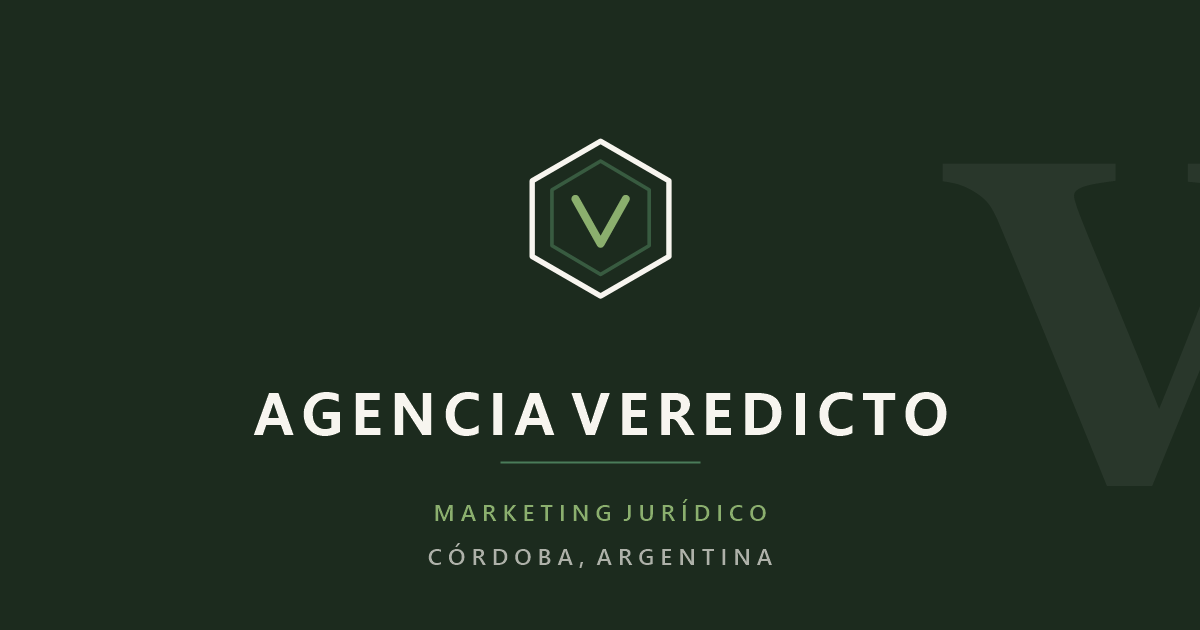
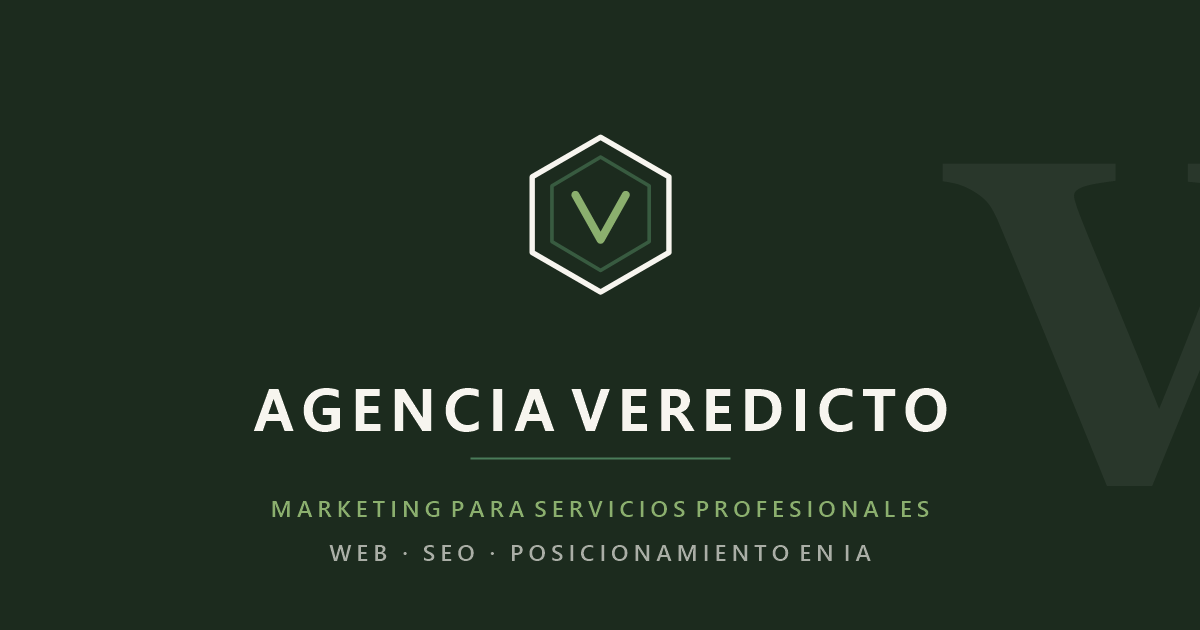
Recategorizacion a servicios profesionales, profundidad en paginas de servicio con FAQ propio, odontologos, animacion del hero y correccion de la promesa de precios

diff --git a/src/data/site.js b/src/data/site.js
@@ -121,9 +121,9 @@ export const usd = n => Math.round(n / TC);
 const serviceMeta = {
   plan1: {
     slug: 'landing-profesional',
-    title: 'Landing Profesional para estudios jurídicos',
+    title: 'Landing Profesional para estudios y consultorios',
     description:
-      'Sitio web de una página para estudios de abogados: diseño a medida, textos propios, dominio y hosting incluidos. Publicado en menos de 7 días hábiles.',
+      'Sitio web de una página para estudios y consultorios: diseño a medida, textos propios, dominio y hosting incluidos. Publicado en menos de 7 días hábiles.',
     lead: 'Para el estudio que quiere una presencia digital sólida y en funcionamiento en días.',
     intro:
       'Una página bien resuelta rinde más que un sitio grande a medio terminar. Diseñamos la landing completa del estudio: quiénes son, qué hacen, por qué confiar y cómo contactarlos. Sin plantillas genéricas y sin textos de relleno.',
@@ -171,12 +171,12 @@ const serviceMeta = {
   },
   redes: {
     slug: 'gestion-de-redes-sociales',
-    title: 'Gestión de redes sociales para estudios jurídicos',
+    title: 'Gestión de redes sociales para servicios profesionales',
     description:
-      'Contenido y comunidad para estudios de abogados: diseño de publicaciones, calendario de contenidos y métricas mensuales.',
+      'Contenido y comunidad para estudios y consultorios: diseño de publicaciones, calendario de contenidos y métricas mensuales.',
     lead: 'Contenido y comunidad para tu estudio.',
     intro:
-      'Gestionamos la presencia del estudio en redes sociales con contenido profesional y una estrategia pensada para el sector jurídico. Trabajamos con distintos planes según los objetivos, las redes y el volumen de contenido.',
+      'Gestionamos la presencia del estudio en redes sociales con contenido profesional y una estrategia pensada para servicios profesionales. Trabajamos con distintos planes según los objetivos, las redes y el volumen de contenido.',
     features: [
       'Diseño de publicaciones',
       'Calendario de contenidos',
@@ -234,11 +234,120 @@ const serviceMeta = {
   }
 };
 
+/* ---------- PROFUNDIDAD POR SERVICIO ----------
+ * Proceso, plazos, que aporta el cliente y preguntas propias.
+ * Es lo que hace que una pagina de servicio compita: responde lo que la
+ * persona realmente pregunta antes de contratar, y son respuestas
+ * autocontenidas, que es el formato que citan los sistemas de IA.
+ */
+export const detalle = {
+  plan1: {
+    plazo: '7 días hábiles desde que recibimos los textos y las fotos.',
+    proceso: [
+      ['Diagnóstico', 'Revisamos cómo aparece hoy el estudio y qué necesita la página para convertir. Sale un documento con la propuesta de estructura.'],
+      ['Contenido', 'Redactamos todos los textos. No hace falta que los escriba el cliente: se hacen a partir de una entrevista de una hora.'],
+      ['Diseño y desarrollo', 'Se arma la página completa, con versión móvil desde el primer día. Se muestra en un enlace privado para revisar antes de publicar.'],
+      ['Publicación', 'Dominio, hosting y certificado de seguridad configurados. La página queda online y el formulario probado.']
+    ],
+    aportas: [
+      'Una hora de entrevista para entender el estudio',
+      'Logo si existe, o lo diseñamos aparte',
+      'Fotos del equipo y del lugar, si las hay'
+    ],
+    faq: [
+      { q: '¿Sirve una sola página o conviene un sitio completo?', a: 'Para un estudio que hoy no tiene nada, una página bien resuelta rinde más que un sitio grande a medio terminar. Si el objetivo es competir por búsquedas en Google, ahí sí conviene el Plan 02, que agrega estructura de varias páginas y trabajo de posicionamiento.' },
+      { q: '¿Qué pasa después de los 12 meses de hosting?', a: 'Se renueva el hosting y el dominio a precio de costo, o se puede migrar el sitio a la cuenta del estudio sin cargo. La página es del cliente, no queda atada a nosotros.' },
+      { q: '¿Puedo editar los textos yo después?', a: 'Sí. Se entrega con acceso y una capacitación corta para cambiar textos, fotos y datos de contacto sin depender de nadie.' }
+    ]
+  },
+  plan2: {
+    plazo: '3 a 4 semanas. El posicionamiento empieza a moverse a partir del tercer mes.',
+    proceso: [
+      ['Diagnóstico y palabras clave', 'Analizamos qué busca la gente en la zona y en la especialidad, y qué está haciendo la competencia. De ahí sale la estructura de páginas.'],
+      ['Arquitectura y contenido', 'Una página por área de práctica o servicio, escritas para responder lo que la gente pregunta. Es lo que permite competir por más de una búsqueda.'],
+      ['Desarrollo y datos estructurados', 'Sitio completo, con schema, sitemap y la preparación para que los sistemas de IA puedan citarlo.'],
+      ['Indexación y Google Business', 'Alta en Search Console, ficha de Google Business optimizada y medición configurada.'],
+      ['Medición', 'Informe inicial de posiciones y de visibilidad en ChatGPT, Gemini, Perplexity y Copilot, contra el que se compara después.']
+    ],
+    aportas: [
+      'Dos horas de entrevista, en una o dos sesiones',
+      'Acceso a la ficha de Google Business si ya existe',
+      'Fotos del equipo y del lugar',
+      'Definir qué tipo de consultas interesa atraer'
+    ],
+    faq: [
+      { q: '¿En cuánto tiempo aparezco primero en Google?', a: 'Nadie puede garantizar una posición ni una fecha. Lo que sí se puede decir: las correcciones técnicas se reflejan en semanas, y el posicionamiento orgánico se mueve entre el tercer y el sexto mes, según cuánta competencia haya en la especialidad y la ciudad.' },
+      { q: '¿Qué diferencia hay con el Plan 01?', a: 'El Plan 01 es una página que presenta al estudio. El Plan 02 es una estructura pensada para competir por búsquedas: varias páginas, trabajo de palabras clave, datos estructurados, Google Business y preparación para búsqueda con IA.' },
+      { q: '¿Incluye escribir el blog todos los meses?', a: 'No. Incluye el blog listo para publicar y la primera entrada cargada, más la capacitación para que el estudio publique. La redacción mensual es parte de la gestión, que se contrata aparte.' },
+      { q: '¿Qué es el posicionamiento en IA que incluye?', a: 'Dejamos el sitio en condiciones de que ChatGPT, Gemini o Perplexity puedan entenderlo y citarlo: datos estructurados, contenido que responde preguntas de forma autónoma, identidad consistente entre el sitio y los perfiles, y un archivo llms.txt. Y entregamos el informe de dónde aparece hoy el estudio en esos sistemas.' }
+    ]
+  },
+  redes: {
+    plazo: 'El primer calendario de contenidos se entrega a los 10 días.',
+    proceso: [
+      ['Estrategia', 'Definimos a quién le hablamos, con qué tono y con qué frecuencia, según los objetivos del estudio.'],
+      ['Calendario', 'Se planifica el mes completo por adelantado y se aprueba antes de publicar. Nada sale sin revisión.'],
+      ['Producción', 'Diseño de las piezas y redacción de los textos, con la identidad visual del estudio.'],
+      ['Comunidad e informe', 'Respuesta a comentarios y mensajes, más un informe mensual de qué funcionó y qué no.']
+    ],
+    aportas: [
+      'Aprobación del calendario antes de cada mes',
+      'Material propio cuando lo haya: fotos, novedades, casos',
+      'Un canal rápido para consultas de la comunidad'
+    ],
+    faq: [
+      { q: '¿Qué redes conviene para un profesional?', a: 'Depende del cliente que se busca. Para captación de particulares suele rendir Instagram; para clientes empresa, LinkedIn. Trabajar bien una sola rinde más que sostener tres a medias.' },
+      { q: '¿Publican sin que yo revise?', a: 'No. El calendario del mes se aprueba antes de que salga la primera pieza. Si algo no convence, se cambia antes de publicar.' },
+      { q: '¿Puedo contratar redes sin tener sitio web?', a: 'Se puede, pero rinde menos. Las redes generan interés y el sitio es donde ese interés se convierte en consulta. Sin un lugar al que mandar a la gente, se pierde buena parte del esfuerzo.' }
+    ]
+  },
+  gbusiness: {
+    plazo: '5 días hábiles. La verificación de Google puede sumar 1 o 2 semanas más, y no depende de nosotros.',
+    proceso: [
+      ['Reclamo o creación', 'Si la ficha existe pero no está a nombre del estudio, se reclama. Si no existe, se crea desde cero.'],
+      ['Optimización', 'Categorías correctas, descripción trabajada con las búsquedas de la zona, horarios, servicios y preguntas frecuentes cargadas.'],
+      ['Fotos y contenido', 'Carga de imágenes del lugar y del equipo, que es lo que más incide en que alguien elija un perfil sobre otro.'],
+      ['Reseñas', 'Se deja configurado el enlace directo para pedir reseñas y se explica cómo pedirlas sin resultar invasivo.']
+    ],
+    aportas: [
+      'Acceso a la ficha si ya está creada',
+      'Fotos del lugar, la fachada y el equipo',
+      'Horarios reales de atención'
+    ],
+    faq: [
+      { q: '¿Sirve si atiendo solo con turno y no recibo gente sin aviso?', a: 'Sí. Google permite fichas de negocios que atienden con cita previa, e incluso sin dirección visible al público. Lo importante es aparecer en el mapa cuando alguien busca la especialidad en la zona.' },
+      { q: '¿Cuántas reseñas necesito?', a: 'No hay un número mágico. Lo que más pesa es que sean recientes, constantes en el tiempo y que el negocio responda. Diez reseñas repartidas en el año rinden más que treinta el mismo día.' },
+      { q: '¿Puedo hacerlo yo mismo?', a: 'Sí, la ficha es gratuita y cualquiera puede crearla. Lo que aporta el servicio es la elección de categorías, cómo se escribe la descripción y qué se carga, que es donde se define si aparecés o no en el mapa.' }
+    ]
+  },
+  renovacion: {
+    plazo: '2 a 3 semanas, según el tamaño del sitio actual.',
+    proceso: [
+      ['Auditoría', 'Revisamos qué funciona, qué está frenando las consultas y qué posiciones tiene hoy el sitio en Google. Nada se tira sin saber qué rinde.'],
+      ['Plan de migración', 'Se define qué contenido se conserva, qué se reescribe y qué URLs hay que redirigir para no perder posicionamiento.'],
+      ['Rediseño', 'Diseño nuevo con la identidad actualizada, versión móvil y velocidad de carga corregida.'],
+      ['Migración y control', 'Publicación con las redirecciones configuradas y seguimiento de las posiciones durante las semanas siguientes.']
+    ],
+    aportas: [
+      'Acceso al sitio actual y al panel del dominio',
+      'Qué del sitio viejo querés conservar',
+      'Acceso a las métricas si las hay'
+    ],
+    faq: [
+      { q: '¿Voy a perder el posicionamiento que ya tengo?', a: 'No, si la migración se hace bien. Se mapean las URLs viejas a las nuevas con redirecciones permanentes y se vigilan las posiciones después de publicar. El riesgo real de perder posiciones aparece cuando se cambia de sitio sin redirigir nada.' },
+      { q: '¿Se puede rescatar el sitio actual en vez de rehacerlo?', a: 'A veces sí, y lo decimos en la auditoría. Si el problema es de velocidad, textos o estructura, puede salir más barato corregir. Si está hecho sobre una base que no se puede sostener, rehacerlo cuesta menos que parcharlo.' },
+      { q: '¿Qué pasa con el correo del dominio?', a: 'No se toca. La renovación afecta al sitio, no a las casillas de correo, que siguen funcionando igual durante y después de la migración.' }
+    ]
+  }
+};
+
 export const services = prices.services.map(s => ({
   ...s,
   ...serviceMeta[s.id],
+  detalle: detalle[s.id] || null,
   url: `/servicios/${serviceMeta[s.id].slug}/`
 }));
+
 
 export const serviceBySlug = slug => services.find(s => s.slug === slug);
 
@@ -355,7 +464,9 @@ export const otrosProfesionales = [
   'Ingenieros y peritos',
   'Martilleros y corredores inmobiliarios',
   'Traductores públicos',
+  'Odontólogos y clínicas dentales',
   'Psicólogos y consultorios',
+  'Kinesiólogos y nutricionistas',
   'Despachantes de aduana',
   'Agrimensores',
   'Asesores de seguros'

diff --git a/public/hero-anim.js b/public/hero-anim.js
@@ -1,0 +1,92 @@
+/* Fondo generativo del hero.
+ *
+ * Criterios: que no distraiga del titular, que no dependa de descargar nada,
+ * que no penalice el rendimiento y que se apague solo cuando corresponde.
+ *
+ * - Lineas de contorno muy tenues que se desplazan lentas, en la paleta verde.
+ * - Se detiene cuando el hero sale de pantalla (IntersectionObserver): no
+ *   gasta CPU mientras el usuario lee el resto de la pagina.
+ * - Se apaga con prefers-reduced-motion y en pantallas chicas, donde el
+ *   costo de bateria no compensa.
+ * - Si algo falla, no pasa nada: el hero funciona igual sin este archivo.
+ */
+(function () {
+  var host = document.getElementById('heroCanvas');
+  if (!host) return;
+
+  var reduce = window.matchMedia('(prefers-reduced-motion: reduce)').matches;
+  var chico = window.matchMedia('(max-width: 720px)').matches;
+  if (reduce || chico) return;
+
+  var canvas = document.createElement('canvas');
+  canvas.setAttribute('aria-hidden', 'true');
+  host.appendChild(canvas);
+
+  var ctx = canvas.getContext('2d', { alpha: true });
+  if (!ctx) return;
+
+  var w = 0, h = 0, dpr = Math.min(window.devicePixelRatio || 1, 2);
+
+  function medir() {
+    var r = host.getBoundingClientRect();
+    w = r.width; h = r.height;
+    canvas.width = Math.floor(w * dpr);
+    canvas.height = Math.floor(h * dpr);
+    canvas.style.width = w + 'px';
+    canvas.style.height = h + 'px';
+    ctx.setTransform(dpr, 0, 0, dpr, 0, 0);
+  }
+  medir();
+
+  // Cada linea es una onda con su propia fase, amplitud y velocidad:
+  // al no compartir periodo, el conjunto nunca se repite a simple vista.
+  var LINEAS = 5;
+  var ondas = [];
+  for (var i = 0; i < LINEAS; i++) {
+    ondas.push({
+      y: 0.32 + i * 0.11,
+      amp: 16 + i * 7,
+      largo: 0.0016 + i * 0.00035,
+      vel: 0.00007 + i * 0.000022,
+      fase: i * 1.7,
+      alfa: 0.22 - i * 0.025
+    });
+  }
+
+  var activo = true, raf = null;
+
+  function dibujar(t) {
+    ctx.clearRect(0, 0, w, h);
+    for (var i = 0; i < ondas.length; i++) {
+      var o = ondas[i];
+      ctx.beginPath();
+      for (var x = 0; x <= w; x += 6) {
+        var y = o.y * h
+              + Math.sin(x * o.largo + t * o.vel + o.fase) * o.amp
+              + Math.sin(x * o.largo * 2.3 + t * o.vel * 1.6) * (o.amp * 0.3);
+        if (x === 0) ctx.moveTo(x, y); else ctx.lineTo(x, y);
+      }
+      ctx.strokeStyle = 'rgba(74, 124, 89, ' + o.alfa + ')';
+      ctx.lineWidth = 1;
+      ctx.stroke();
+    }
+    if (activo) raf = requestAnimationFrame(dibujar);
+  }
+  raf = requestAnimationFrame(dibujar);
+
+  // Se pausa cuando el hero no esta a la vista
+  if ('IntersectionObserver' in window) {
+    new IntersectionObserver(function (entradas) {
+      entradas.forEach(function (e) {
+        if (e.isIntersecting && !activo) { activo = true; raf = requestAnimationFrame(dibujar); }
+        else if (!e.isIntersecting && activo) { activo = false; cancelAnimationFrame(raf); }
+      });
+    }, { threshold: 0 }).observe(host);
+  }
+
+  var tid;
+  window.addEventListener('resize', function () {
+    clearTimeout(tid);
+    tid = setTimeout(medir, 180);
+  }, { passive: true });
+})();

diff --git a/src/styles/components.css b/src/styles/components.css
@@ -342,3 +342,48 @@ h2.sec-title,
 /* Botones del sitio: nunca parten en dos lineas */
 .btn-plan, .btn-nav, .btn-submit { white-space: nowrap; }
 
+
+/* "Otros profesionales" cierra el desplegable: se separa del resto para que
+   se lea como categoria aparte y no como un quinto sector. */
+.nav-menu .nm-otros { border-top: 1px solid var(--line); margin-top: 6px; padding-top: 6px; }
+.nav-menu .nm-otros .nm-title { color: var(--sage); }
+
+/* ======== FONDO ANIMADO DEL HERO ========
+ * Va detras de todo y no intercepta clics. El canvas lo crea el JS: si el
+ * script no corre, este contenedor queda vacio y el hero se ve igual.
+ */
+.hero-canvas {
+  position: absolute; inset: 0;
+  pointer-events: none; z-index: 0;
+  overflow: hidden;
+}
+.hero-canvas canvas { display: block; }
+.hero > .wrap { position: relative; z-index: 1; }
+.hero-bg-num { z-index: 0; }
+
+/* ======== PROCESO DENTRO DE UNA PAGINA DE SERVICIO ======== */
+.plazo-nota {
+  font-size: 14px; color: var(--muted);
+  background: var(--paper); border: 1px solid var(--line);
+  border-left: 3px solid var(--sage);
+  border-radius: 3px; padding: 12px 16px; margin: 0 0 26px;
+}
+.plazo-nota strong { color: var(--ink); font-weight: 600; }
+
+.proceso-pasos { list-style: none; counter-reset: paso; margin: 0 0 12px; padding: 0; }
+.proceso-pasos li {
+  counter-increment: paso;
+  display: grid; grid-template-columns: 30px 1fr; gap: 0 16px;
+  padding: 16px 0; border-top: 1px solid var(--line);
+}
+.proceso-pasos li:last-child { border-bottom: 1px solid var(--line); }
+.proceso-pasos li::before {
+  content: counter(paso, decimal-leading-zero);
+  font-family: var(--display); font-size: 13px; font-weight: 700;
+  color: var(--sage); letter-spacing: .02em; padding-top: 2px;
+}
+.pp-titulo {
+  display: block; font-family: var(--body); font-size: 14.5px;
+  font-weight: 600; color: var(--ink); margin-bottom: 4px;
+}
+.pp-texto { display: block; font-size: 14px; color: var(--muted); line-height: 1.7; max-width: 60ch; }

diff --git a/src/pages/llms.txt.js b/src/pages/llms.txt.js
@@ -10,11 +10,11 @@ export async function GET() {
 
   const txt = `# ${SITE.name}
 
-> Agencia de marketing jurídico. Sitios web, posicionamiento en Google y gestión de Google Business para estudios de abogados, estudios contables, escribanías y consultores. Con sede en ${SITE.city}, ${SITE.country}, desde ${SITE.foundingDate}.
+> Agencia de marketing para servicios profesionales. Sitios web, posicionamiento en Google y en respuestas de IA, y gestión de Google Business para estudios de abogados, estudios contables, escribanías, consultorios y consultores. Los estudios jurídicos son el núcleo de su trabajo y el origen de la agencia. Con sede en ${SITE.city}, ${SITE.country}, desde ${SITE.foundingDate}.
 
 ## Qué hace
 
-Veredicto construye la presencia digital de estudios profesionales: sitio web a medida, SEO local, ficha de Google Business optimizada, gestión de redes y renovación de sitios desactualizados. El trabajo empieza siempre con un diagnóstico gratuito de cómo aparece el estudio en Google.
+Veredicto construye la presencia digital de estudios y consultorios profesionales: sitio web a medida, SEO local, ficha de Google Business optimizada, gestión de redes y renovación de sitios desactualizados. El trabajo empieza siempre con un diagnóstico gratuito de cómo aparece el estudio en Google.
 
 - Clientes asesorados: más de ${proof.clientes}
 - Opiniones en Google: ${proof.opiniones}, con puntaje ${proof.puntaje} sobre 5
